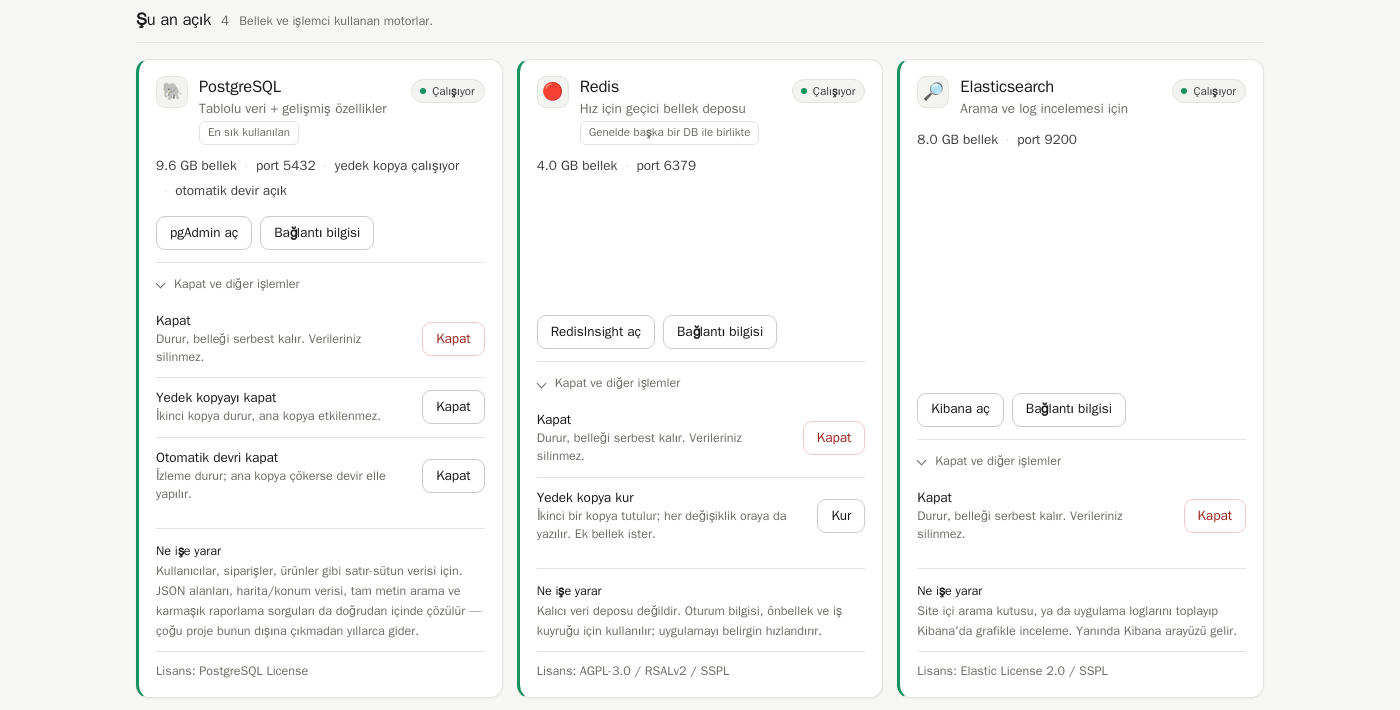
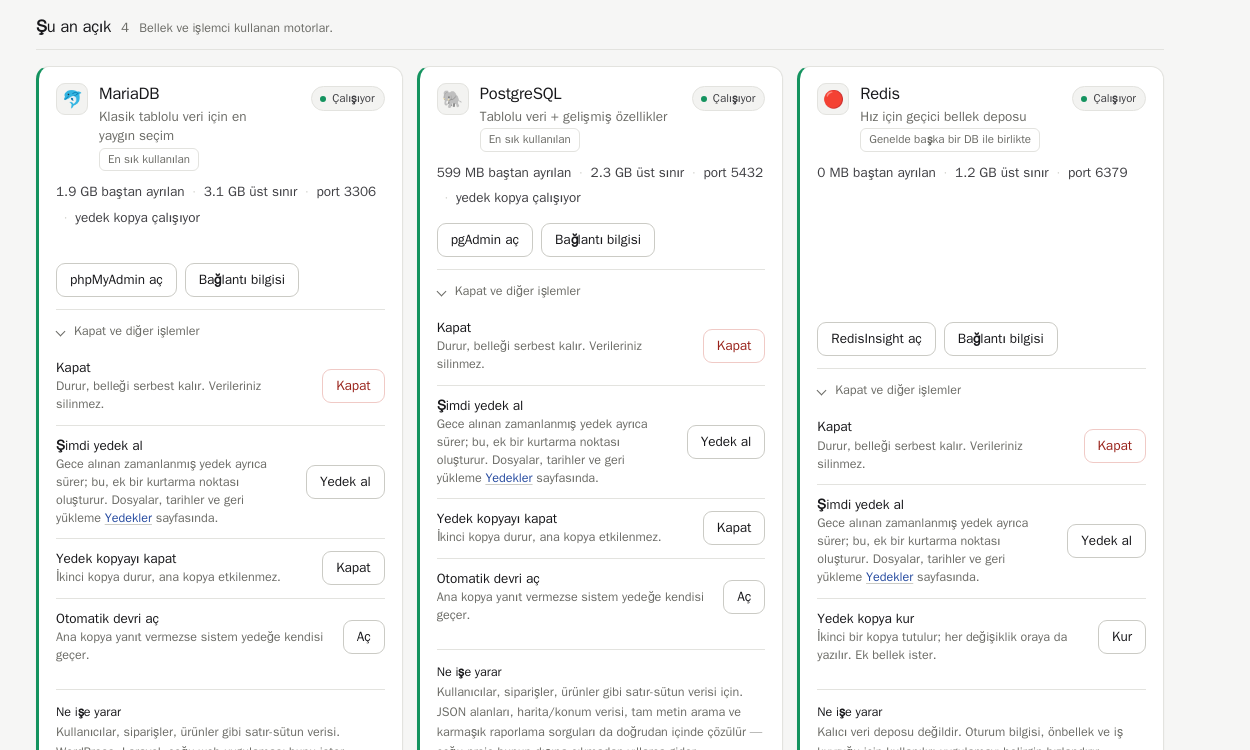
docs: yeni bellek göstergesi ve Yedekler sayfası görselleri
Görseller gerçek API cevaplarıyla yeniden çekildi (sunucudan alınan
status/plans/events/backups/catalog, yerel görüntü ortamına taşındı):

- 01-panel: üst barda birincil sayı artık GERÇEK kullanım (2.0 GB / 16 GB),
  altında "baştan ayrılan 2.5 GB · üst sınır 14 GB", rozetlerde
  "bellek baskısı: yok" ve bilgilendirici "tavan toplamı %120 — tavanlar
  aynı anda dolmaz". Kapalı motorların hiçbirinde artık "bellek yetmiyor"
  yazmıyor; hepsi açılabilir durumda.
- 03-islemler: kart künyesi yeni dili konuşuyor ("1.9 GB baştan ayrılan ·
  3.1 GB üst sınır") ve "Şimdi yedek al" işlemi görünüyor.
- 06-yedekler: yeni sayfa — zamanlama, motor başına adet/boyut/yaş,
  "Yedek al" ve "Son yedeğe dön".

Ayrıca bir CSS kusuru: dosya listesi özetinde ok işareti (.chev mutlak
konumlu) metnin üstüne biniyordu, çünkü .bk-files > .sum flex değildi —
ekran görüntüsünde "Yedekleri göster" yazısının ilk harfi okun altında
kalıyordu.

README'nin üst bar açıklaması da düzeltildi: eskiden "üst bardaki sayı
ayrılan belleği gösterir" diyordu, artık gerçek kullanımı gösteriyor.

diff --git a/gateway/html/style.css b/gateway/html/style.css
@@ -1836,7 +1836,11 @@ main {
    tek durum. Her satırın sonundaki düğme o dosyaya geri döner — "son yedek"
    her zaman istenen yedek değildir. */
 .bk-files { margin: 4px 0 0; padding-left: 34px; }
-.bk-files > .sum { font-size: 12px; color: var(--muted); padding: 4px 0; }
+/* .sum genelde flex kutu; burada olmayınca ok işareti (.chev mutlak
+   konumlu) metnin üstüne biniyordu — ekran görüntüsünde "Yedekleri
+   göster" yazısının ilk harfi okun altında kalıyordu. */
+.bk-files > .sum { display: flex; align-items: center; gap: 6px;
+                   font-size: 12px; color: var(--muted); padding: 4px 0; }
 .bk-flist { list-style: none; margin: 4px 0 0; padding: 0;
             border-top: 1px solid var(--border); }
 .bk-file { display: grid; gap: 10px; align-items: center;

diff --git a/README.md b/README.md
@@ -30,9 +30,14 @@ var mı. Altta **kapalı** olanlar tek satır — hiç kaynak harcamıyorlar, bi
 kartı hak etmiyorlar. Satıra tıklayınca ne işe yaradığı, tahmini belleği ve
 lisansı açılır.
 
-Üst bardaki sayı *ayrılan* belleği gösterir (motorlara söz verilen tavan),
-altında da sunucunun toplam RAM'i ve **gerçek** kullanımı. İkisi farklıdır ve
-fark önemlidir: tavanlar rezervasyon değil üst sınırdır.
+Üst bardaki birincil sayı **gerçek kullanımdır**, altındaki satırda ise iki
+ayrı büyüklük durur: *baştan ayrılan* (motorun açılışta gerçekten aldığı
+bellek) ve *üst sınır* (docker limiti). İkisini ayırmak şart, çünkü docker
+limiti bir **tavandır, rezervasyon değil** — tavanları toplayıp RAM ile
+kıyaslamak, yoldaki arabaların azami hızlarını toplayıp "yol kapasitesi aşıldı"
+demeye benzer. Ölçülen bir örnek: 16 GB'lık sunucuda tavan toplamı 14 GB
+görünürken gerçek kullanım 2 GB, çekirdeğin bellek baskısı ise sıfırdı.
+Ayrıntı: [Bellek otomatik hesaplanır](#bellek-otomatik-hesaplan%C4%B1r).
 
 <div align="center">
 <img src="ss/03-islemler.png" alt="Geri dönüşü zor işlemler kapalı bir bölümde" width="900">
@@ -42,6 +47,17 @@ Gündelik işler kartın yüzünde (paneli aç, bağlantı bilgisi). **Geri dön
 olanlar** — kapatmak, yedek kopyayı kaldırmak, otomatik devri kapatmak —
 kapalı bir bölümde ve her biri **ne olacağını tek cümleyle** söylüyor. Yan yana
 duran altı düğme arasından yanlışına basmak bu üründe mümkün değil.
+
+<div align="center">
+<img src="ss/06-yedekler.png" alt="Yedekler sayfası" width="900">
+</div>
+
+Yedekler kendi sayfasında (**Araçlar → Yedekler**): gecelik turun saati ve kaç
+gün saklanacağı, her motorun kaç yedeği olduğu, en yenisinin ne zaman alındığı
+ve her dosyanın **kaynağı** — `elle`, `zamanlı` ya da `dış` (komut satırı).
+Kurtarma da buradan: **Son yedeğe dön** ya da dosya listesinden belirli bir
+güne. Geri yükleme veriyi silip yerine koyduğu için onay penceresi motor adını
+yazdırır — tek tıkla olacak bir iş değil.
 
 <div align="center">
 <img src="ss/05-izleme.png" alt="Grafana panoları" width="900">
@@ -175,6 +191,8 @@ kapalı motorların hepsinde "bellek yetmiyor" diyordu — boş bir makinede.
 1. **Rezerve kapısı — sert.** `Σ rezerve + yeni motorun rezervesi ≤
    dağıtılabilir`. Asla esnetilmez: rezerve, motorun ayıracağı **gerçek**
    bellektir; sığmıyorsa açmak OOM'a davetiyedir.
+   Sığmayan istek önce küçültülür (daha küçük tavan → daha küçük rezerve);
+   asgari tavanda bile sığmıyorsa reddedilir.
 2. **Tavan kapısı — yumuşak.** `Σ tavan + yeni tavan ≤ dağıtılabilir × 1,5`.
    Tavanların hepsi aynı anda dolmaz. Katsayı kontrol servisinin
    `OVERCOMMIT_LIMIT` ortam değişkeniyle değişir; `1.0` yazmak aşırı taahhüdü

diff --git a/docs/BELLEK.md b/docs/BELLEK.md
@@ -83,6 +83,11 @@ Asla esnetilmez. Rezerve motorun gerçekten ayıracağı bellektir; aşırı taa
 edilirse ilk yazma yükünde OOM killer devreye girer. Plan bu kapıyı
 `reserve_ok` alanında bildirir.
 
+Sığmayan bir istek **önce küçültülür**: rezerve tavanla birlikte büyüdüğü için
+(MariaDB buffer pool = tavanın %60'ı) daha küçük bir tavan çoğu zaman sığar ve
+kullanıcı istediği motoru açar. Tavan %5'lik adımlarla `min_mb`'ye kadar iner;
+asgari tavanda bile sığmıyorsa **o zaman** reddedilir.
+
 ### 3.3 Çekirdek kemeri
 
 ```
